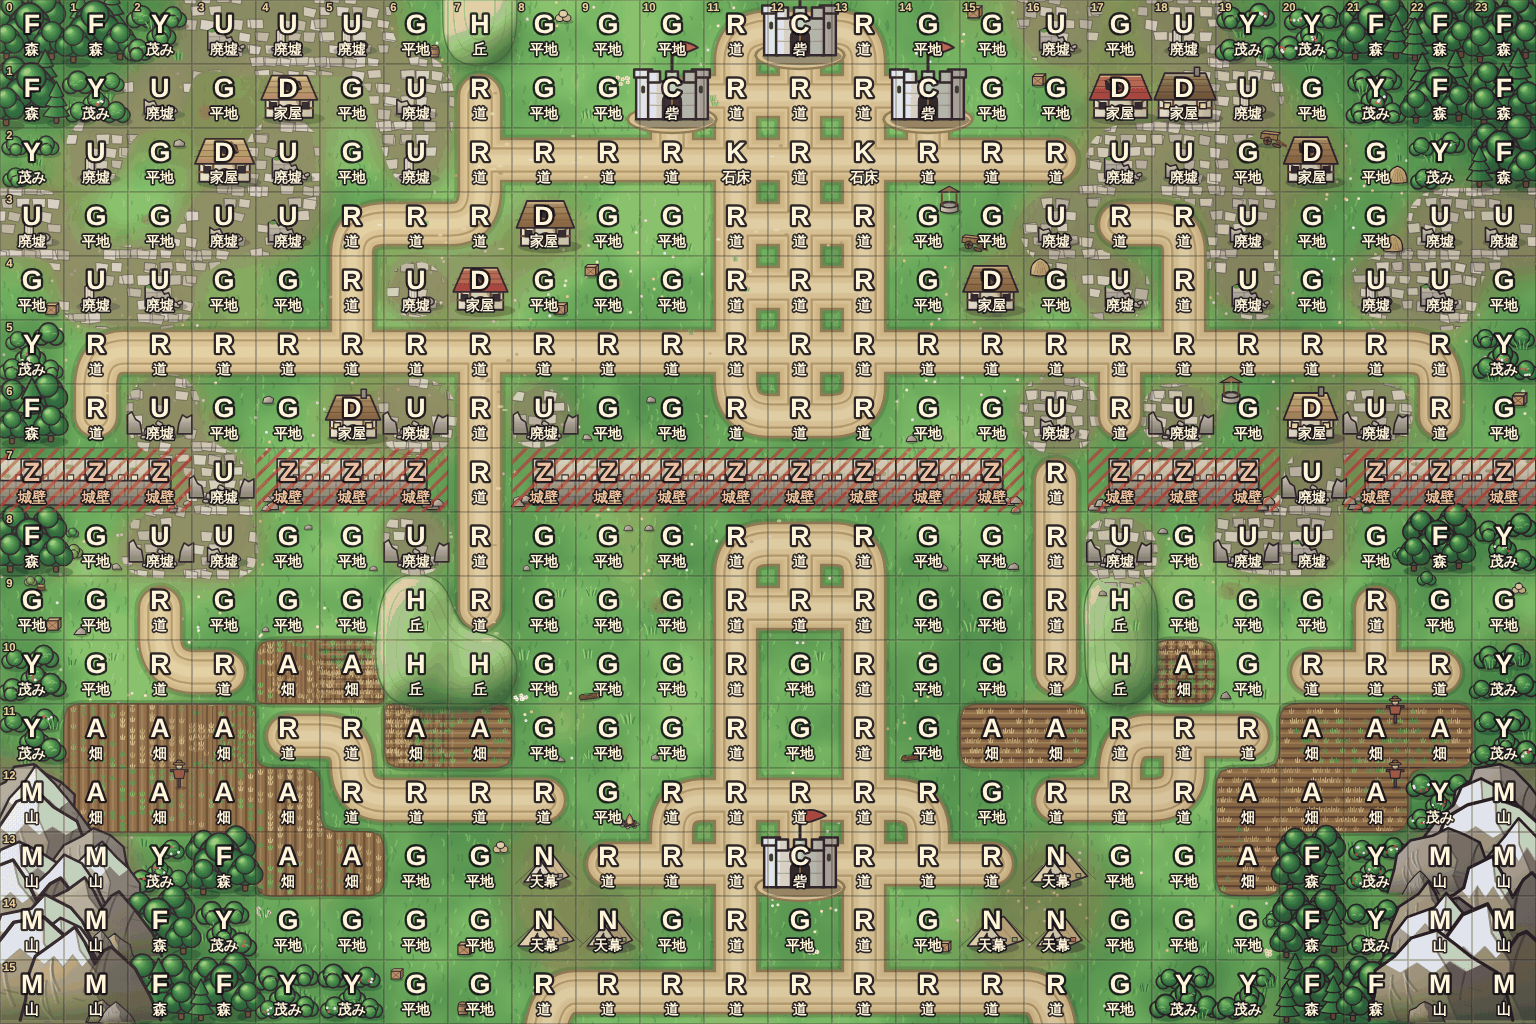
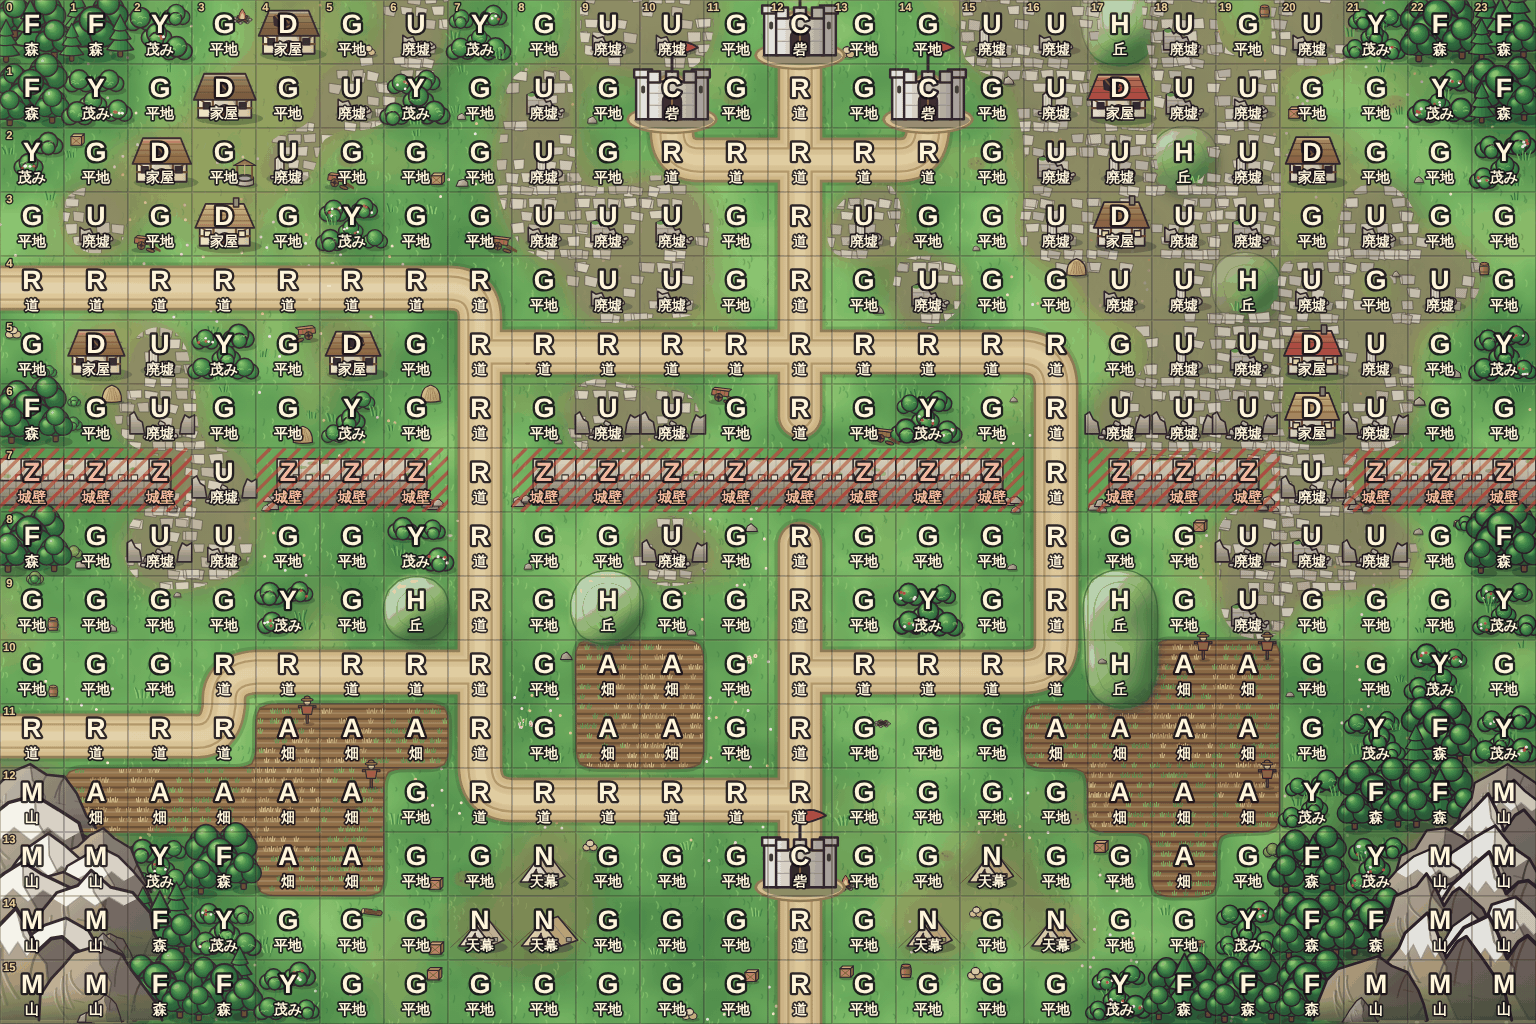
Finish map polish for chapters 8-10; regenerate layout guides
The labyrinth gets dedicated cave floor and rock wall visuals, chapters
9 and 10 lose their road clumps and stubs, and an escape chapter now
ends in defeat when nobody can reach the exit.

Claude-Session: https://claude.ai/code/session_01CSAgxnQ7PLUqLAL1aMk3b3

diff --git a/src/chapters/ch08.ts b/src/chapters/ch08.ts
@@ -9,7 +9,7 @@ const golem = (lv: number, x: number, y: number, ai: EnemyAI): EnemyDef =>
 const shade = (lv: number, x: number, y: number, ai: EnemyAI): EnemyDef => ({ cls: 'shade', lv, x, y, wps: ['shadeBolt'], ai, prefix: '' });
 const crystal = (x: number, y: number, tag: string): EnemyDef => ({ cls: 'crystal', lv: 12, x, y, wps: [], ai: 'guard', prefix: '', tag });
 
-// 24×16。旧鉱山の跡にできた迷宮（K 石床・Q 岩壁。見た目は今は道と崖で代用）。南の中央が核の間（開始位置）、北の中央に地上への出口（3マス）。
+// 24×16。旧鉱山の跡にできた迷宮（K 石床・Q 岩壁。src/render/terrain.ts が洞窟として描く。G は出口の地上だけ）。南の中央が核の間（開始位置）、北の中央に地上への出口（3マス）。
 // 近道（東）：核の間から細い坑道を北へ上がり、迷宮の主の広間（東）を抜けて、北の大広間へ出る。広間の出口の1マスの通路を迷宮の主が塞ぐ。
 // 遠回り（西）：核の間から西の坑道を抜け、地下水の流れる西の縦穴を北へ登る（流れは橋か浅瀬で渡る）。西の上の坑道から北の大広間へ。
 // 真ん中は地底湖と裂け目（崖）と岩の塊で通れない。大広間・縦穴・主の広間には古い坑道の残骸（廃墟）と崩れた土砂（丘）、坑道沿いの岩棚（山＝歩兵だけ登れる高所）。

diff --git a/design/review-board/codex-queue.md b/design/review-board/codex-queue.md
@@ -21,13 +21,14 @@
 | Q-01 | **第9・10章の章データ**。2段構成（9章：防衛→制圧、10章：オルステッド戦の耐久→使徒戦）、ペルギウス加入、オルステッドのゲスト参戦、`ending: true`。仕様は handoff-to-codex.md。見本は `ch05.ts`・`ch06.ts`・`dev.ts` | `src/chapters/ch09.ts`、`ch10.ts` | 自動プレイで通しクリア、会話が全部発生、地図画像を保存 | 完了（Codex）。地図の見た目の直しを依頼中 |
 | Q-02 | **3章以降の敵のマップ用絵**：鳥、残滓の影、残滓の結晶、私兵の重騎士、残光の大熊、森の主、頭目バラク。プロンプトは `design/plot.md §6.1〜6.2`、絵柄の仕様は `design/map-and-enemy-prompts.md §1`（既存の `assets/units/*.png` と絵柄をそろえる） | `assets/units/` | 7点を納品。ファイル名は plot.md の指定どおり | 完了（Codex） |
 | Q-03 | **残りのBGM**：優先順に prologue、comedy、map_resolve、romance、orsted、final_boss、ending、map_final、ジングルの levelup・classchange・support。仕様は `design/asset-orders.md §1` | `assets/audio/bgm/` | 数値検品つきで納品 | 完了（Codex） |
-| Q-04 | **会話の背景**：優先順に forest、forest_residue、buena_hill、riverside、ruined_city、battlefield_dusk、labyrinth、noble_camp、sky_fortress、white_void、rebuilt_village、home_inside、camp_sunset、camp_dawn、boreas_memorial（9章幕間・一覧漏れ補完）。仕様は `design/asset-orders.md §2` と `design/plot.md §6.4` | `assets/backgrounds/` | 納品 | 作業中（6点先行納品・ゲーム用登録済み、解像度仕様未達・残り9点） |
+| Q-04 | **会話の背景**：優先順に forest、forest_residue、buena_hill、riverside、ruined_city、battlefield_dusk、labyrinth、noble_camp、sky_fortress、white_void、rebuilt_village、home_inside、camp_sunset、camp_dawn、boreas_memorial（9章幕間・一覧漏れ補完）。仕様は `design/asset-orders.md §2` と `design/plot.md §6.4` | `assets/backgrounds/` | 納品 | 作業中（Codex）。6点納品済み、残り9点。解像度は 1672×941 で合格 |
 | Q-05 | **一枚絵**：優先順に ev_sylphie_reveal（4章）、ev_eris_memorial（9章）、告白7枚、ev_orsted_farewell、ev_epilogue_all、嫁同士1枚。仕様は `design/plot.md §6.3` と `design/portrait-prompts.md` | `assets/events/` | 納品 | 空き |
-| Q-06 | **完成済みの章の通しプレイとバランスの記録**：序章〜2章、5・6章を通常の成長で進め、章ごとの勝率・ターン数・倒れやすい仲間・レベルの伸びを記録する。数値を直す提案は掲示板に書く（章のファイルを直す場合は、その章の担当が空いているか確認） | 記録は `design/review-board/` に新規ファイル | 記録と提案 | 空き |
+| Q-06 | **完成済みの章の通しプレイとバランスの記録**：序章〜2章、5・6章を通常の成長で進め、章ごとの勝率・ターン数・倒れやすい仲間・レベルの伸びを記録する。数値を直す提案は掲示板に書く（章のファイルを直す場合は、その章の担当が空いているか確認） | 記録は `design/review-board/` に新規ファイル | 記録と提案 | Claude が着手 |
 | Q-07 | **ボス曲の鳴らし方の見直し**（合意済みの別件）：倒さなくてよいボスの章で鳴り続けないよう、ボスが絡む戦闘の間だけボス曲にする、または敵軍フェイズでは map_enemy に戻す | `src/audio/engine.ts`、`src/main.ts` の曲の切替 | 自動テストつきで実装 | 空き |
-| Q-08 | **宝箱と村の訪問**（plot.md §5 の M13）と、迷宮の石床・岩壁の専用の見た目（M9）。完成したら7・8章への反映方法を掲示板に書く | `src/logic.ts`、`src/main.ts`、`src/render/terrain*.ts` | テスト用の章で動作確認 | 空き |
+| Q-08 | **宝箱と村の訪問**（plot.md §5 の M13）と、迷宮の石床・岩壁の専用の見た目（M9）。完成したら7・8章への反映方法を掲示板に書く | `src/logic.ts`、`src/main.ts`、`src/render/terrain*.ts` | テスト用の章で動作確認 | 迷宮の見た目は完了（Claude）。宝箱と村は空き |
 | Q-09 | **台本の2巡目の確認**：3〜10章と支援会話について、原作設定との食い違い、章をまたぐ伏線の回収漏れ、呼び方や一人称のぶれを確認し、指摘を掲示板に書く（文面の修正は Claude） | なし（指摘のみ） | 指摘の一覧 | 空き |
 | Q-10 | **スキル、店と所持品**（systems.md §2〜4）。無くても最後まで遊べる追加要素。着手前に、どこまで作るかを掲示板に書く | `src/logic.ts`、`src/main.ts`、`src/data.ts` | — | 空き・優先度低 |
+| Q-11 | **描いた地図**。下絵 `design/map-guides/chNN-guide.png` を入力に、配置を変えずに描き直す。発注文は `design/map-paint-prompts.md`。まず第8章と第1章の2枚を試作し、ユーザーの確認後に残り8章 | `assets/maps/` | grid 画像と見比べてずれが無いこと | 空き（最優先） |
 
 ## 決まり（再掲）
 
